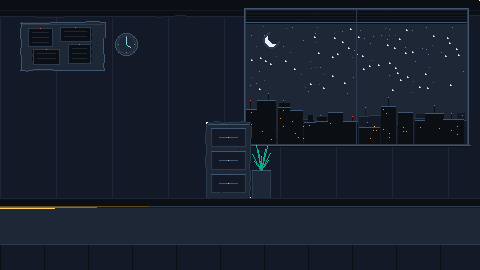
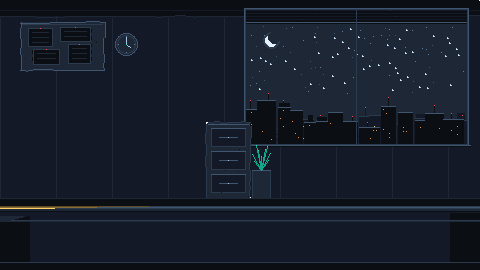
art(desk): defined desk pass -- grouped props, bevelled lip/apron/kick, contact shadows everywhere, real keyboard/mouse/mug/folder; fix workspace budget (BUG-026)

Changed region(s): [[0.0, 0.7407, 1.0, 0.9185], [0.0, 0.9481, 1.0, 0.9778]]

diff --git a/tools/art/promote_composition_L.py b/tools/art/promote_composition_L.py
@@ -230,20 +230,60 @@ def plant_pot(img, d, x, floor_row, h=42, leaf='signaldim', tip='signal'):
 
 
 def desk_front(img, d, level=0):
-    """The desk surface + front face at the bottom of the screen. Same band in every corruption level."""
+    """The desk: surface band + front face. Same construction in every corruption level.
+
+    DEFINED 2026-11-26. The old front face was three flat bands with a tick mark every 44 px, which
+    read as "underdefined wall". A desk seen from the player's side is a piece of furniture, so it now
+    has: a bevelled front lip (3 steps), a lit top edge that catches the monitor glow, a recessed
+    knee-well shadow at the ends, and an apron with one drawer + handle -- the single most recognisable
+    desk cue that fits in 18 px of height.
+    """
+    LIP = 4                              # lit lip thickness, rows DESK_ROW..DESK_ROW+LIP
+    APRON_TOP = DESK_ROW + LIP + 1
     d.rectangle([0, DESK_ROW, W - 1, H - 1], fill=rgba('panel2'))
-    d.rectangle([0, DESK_ROW + 38, W - 1, H - 1], fill=rgba('panel'))
+
+    # ---- front lip: three bevelled steps, so the edge catches light instead of being a line
     seam = 'line' if level < 2 else 'dangerdim'
     d.line([0, DESK_ROW, W - 1, DESK_ROW], fill=rgba(seam))
-    d.line([0, DESK_ROW + 1, W - 1, DESK_ROW + 1], fill=rgba('panel'))
-    d.line([0, DESK_ROW + 38, W - 1, DESK_ROW + 38], fill=rgba('line'))
-    for x in range(0, W, 44):
-        d.line([x, DESK_ROW + 39, x, H - 1], fill=rgba('void'))
-    # warm rim only from the off-screen lamp on the left (bible §2)
+    d.line([0, DESK_ROW + 1, W - 1, DESK_ROW + 1], fill=rgba('linehi'))
+    d.line([0, DESK_ROW + 2, W - 1, DESK_ROW + 2], fill=rgba('line'))
+
+    # ---- apron: one step darker than the lip, with a drawer reserved in the middle
+    d.rectangle([0, APRON_TOP, W - 1, H - 1], fill=rgba('panel'))
+    d.line([0, APRON_TOP, W - 1, APRON_TOP], fill=rgba('void'))
+
+    # ---- knee-well shadow at both ends: the desk darkens where it turns away from the lamp
+    for i in range(26):
+        tone = 'void' if i < 12 else 'panel'
+        d.line([0, APRON_TOP + 1 + i, W - 1, APRON_TOP + 1 + i], fill=rgba('panel'))
+    for i in range(30):
+        d.line([i, APRON_TOP + 2, i, H - 1], fill=rgba('void'))
+        d.line([W - 1 - i, APRON_TOP + 2, W - 1 - i, H - 1], fill=rgba('void'))
+    # re-light the middle of the apron so the darkening reads as a gradient, not a frame
+    for i in range(30, W // 2):
+        d.line([i, APRON_TOP + 2, i, H - 1], fill=rgba('panel'))
+        d.line([W - 1 - i, APRON_TOP + 2, W - 1 - i, H - 1], fill=rgba('panel'))
+
+    # ---- apron detail: two panel joints and a horizontal rail.
+    # A centred drawer was tried first and read as a TRAY holding the papers (the props sit directly
+    # above it) -- so the front face stays quiet and reads by its planes instead: lip, apron, rail,
+    # kick shadow. Definition comes from value steps, not from added clutter.
+    d.line([0, APRON_TOP + 9, W - 1, APRON_TOP + 9], fill=rgba('line'))
+    d.line([0, APRON_TOP + 10, W - 1, APRON_TOP + 10], fill=rgba('panel2'))
+    # NOTE: vertical panel joints were tried at x=168/312 and deleted -- they ran straight through
+    # the mouse and the folder, which is exactly the "scrambled" read we were fixing.
+    # kick shadow along the floor: the darkest plane, so the desk has a base
+    d.rectangle([0, H - 7, W - 1, H - 1], fill=rgba('void'))
+    d.line([0, H - 8, W - 1, H - 8], fill=rgba('line'))
+
+    # ---- warm rim only from the off-screen lamp on the left (bible §2)
     if level == 0:
-        d.line([0, DESK_ROW, 148, DESK_ROW], fill=rgba('glow_amber'))   # lamp falloff on the desk edge
+        d.line([0, DESK_ROW, 148, DESK_ROW], fill=rgba('glow_amber'))    # lamp falloff on the lip
         d.line([0, DESK_ROW + 1, 96, DESK_ROW + 1], fill=rgba('paperdim'))
-        d.line([0, DESK_ROW + 2, 54, DESK_ROW + 2], fill=rgba('warn'))  # warmest right under the lamp
+        d.line([0, DESK_ROW + 2, 54, DESK_ROW + 2], fill=rgba('warn'))   # warmest under the lamp
+        for i in range(40):                                              # spill onto the apron
+            d.line([0, APRON_TOP + 1 + i // 4, 42 - i, APRON_TOP + 1 + i // 4],
+                   fill=rgba('panel2' if i > 18 else 'panel'))
     elif level == 2:
         d.line([0, DESK_ROW, 132, DESK_ROW], fill=rgba('dangerdim'))
 
@@ -305,35 +345,83 @@ def room(level=0):
 
 
 # --------------------------------------------------------------------------- desk work
-def keyboard(img, d, cx, row, w=92, h=24):
+def keyboard(img, d, cx, row, w=88, h=26):
+    """DEFINED desk pass (2026-11-26). The old keyboard was 3 rows of identical key holes, which
+    merged into a grille. Now: lit top face, recessed key well, staggered key rows, a real space
+    bar, and a shadow under the front lip so it sits on the desk instead of floating on it."""
     x = cx - w // 2
-    d.rectangle([x, row, x + w, row + h], fill=rgba('panel'), outline=rgba('linehi'))
-    d.rectangle([x + 1, row + 1, x + w - 1, row + h - 1], outline=rgba('line'))
-    for r_ in range(3):
-        for c_ in range(13):
-            bx = x + 5 + c_ * 6
-            by = row + 4 + r_ * 4
-            if bx + 4 < x + w - 4:
-                d.rectangle([bx, by, bx + 4, by + 2], fill=rgba('line'))
-    d.rectangle([x + 24, row + h - 5, x + w - 24, row + h - 2], fill=rgba('line'))
+    # contact shadow on the desk
+    d.line([x + 2, row + h + 2, x + w - 2, row + h + 2], fill=rgba('void'))
+    d.line([x + 6, row + h + 3, x + w - 6, row + h + 3], fill=rgba('panel'))
+    # body: lit top edge, dark well, shadowed bottom
+    d.rectangle([x, row, x + w, row + h], fill=rgba('panel2'), outline=rgba('line'))
+    d.line([x + 1, row + 1, x + w - 1, row + 1], fill=rgba('linehi'))
+    d.rectangle([x + 1, row + 2, x + w - 1, row + h - 1], outline=rgba('line'))
+    # key well: a recessed plane, one step darker than the body
+    wx0, wy0, wx1, wy1 = x + 4, row + 4, x + w - 4, row + h - 5
+    d.rectangle([wx0, wy0, wx1, wy1], fill=rgba('void'))
+    d.line([wx0, wy0, wx1, wy0], fill=rgba('line'))
+    # staggered keys: back row is full width, front rows inset (that is what a keyboard looks like)
+    rows = ((wx0 + 1, 13, 6), (wx0 + 3, 12, 6), (wx0 + 5, 11, 6))
+    for i, (kx, count, step) in enumerate(rows):
+        ky = wy0 + 2 + i * 5
+        for c_ in range(count):
+            bx = kx + c_ * step
+            if bx + 4 > wx1:
+                break
+            d.rectangle([bx, ky, bx + 4, ky + 3], fill=rgba('panel'))
+            d.line([bx, ky, bx + 4, ky], fill=rgba('linehi'))      # lit key top
+    # space bar + two modifiers
+    d.rectangle([cx - 16, wy1 - 5, cx + 16, wy1 - 2], fill=rgba('panel'))
+    d.line([cx - 16, wy1 - 5, cx + 16, wy1 - 5], fill=rgba('linehi'))
+    d.rectangle([wx0 + 1, wy1 - 5, wx0 + 7, wy1 - 2], fill=rgba('panel'))
+    d.rectangle([wx1 - 7, wy1 - 5, wx1 - 1, wy1 - 2], fill=rgba('panel'))
+    # front lip
+    d.line([x, row + h - 2, x + w, row + h - 2], fill=rgba('line'))
     d.line([x, row + h, x + w, row + h], fill=rgba('void'))
 
 
 def mouse(img, d, x, row):
-    d.ellipse([x, row, x + 13, row + 18], fill=rgba('panel'), outline=rgba('linehi'))
-    d.line([x + 6, row + 2, x + 6, row + 7], fill=rgba('line'))
-    d.line([x - 4, row + 1, x + 1, row + 4], fill=rgba('line'))
+    """Mouse built from row spans so it has a real silhouette. The previous version was a pale disc
+    on a dark disc, which read as two coins. Crown is narrow, body is wide, and the split runs only
+    down the front third -- that is what makes it read as a mouse and not an oval."""
+    d.line([x + 1, row + 19, x + 12, row + 19], fill=rgba('void'))       # contact shadow
+    # BODY TONE: 'line', not 'panel2' -- the desk surface itself is panel2, so the first version of
+    # this mouse was the same value as the desk and only its edges showed (it read as a plus sign).
+    spans = ((4, 11), (2, 13), (1, 14), (1, 14), (0, 15), (0, 15), (0, 15), (0, 15),
+             (0, 15), (1, 14), (1, 14), (2, 13), (3, 12), (4, 11), (5, 10), (6, 9))
+    for i, (a, b) in enumerate(spans):
+        d.line([x + a, row + i, x + b, row + i], fill=rgba('line'))
+    d.line([x + 4, row, x + 11, row], fill=rgba('linehi'))               # lit crown
+    d.line([x + 1, row + 2, x + 1, row + 13], fill=rgba('linehi'))       # lit left edge
+    d.line([x + 14, row + 3, x + 14, row + 13], fill=rgba('panel2'))     # shaded right edge
+    d.line([x + 7, row + 1, x + 7, row + 6], fill=rgba('void'))          # button split
+    d.line([x, row + 7, x + 15, row + 7], fill=rgba('linehi'))           # button/body seam
+    d.point((x + 7, row + 9), fill=rgba('linehi'))                       # scroll notch
+    d.line([x - 6, row + 1, x - 1, row + 2], fill=rgba('line'))          # cable
 
 
 def coffee(img, d, x, row):
-    d.rectangle([x, row, x + 22, row + 24], fill=rgba('panel'), outline=rgba('linehi'))
-    d.line([x + 1, row + 1, x + 21, row + 1], fill=rgba('ink'))
-    d.line([x + 22, row + 4, x + 28, row + 7], fill=rgba('linehi'))
-    d.line([x + 28, row + 7, x + 28, row + 15], fill=rgba('linehi'))
-    d.line([x + 28, row + 15, x + 22, row + 18], fill=rgba('linehi'))
-    for i, sx in enumerate((x + 5, x + 11, x + 17)):
-        d.line([sx, row - 4, sx + 1, row - 9 - i], fill=rgba('line'))
-        d.point((sx + 1, row - 10 - i), fill=rgba('linehi'))
+    """Mug: cylinder with a lit rim, liquid line, handle, two-step contact shadow, 1 wisp of steam.
+    The old one was a rectangle with a wire handle -- the biggest single 'undefined' blob on the desk."""
+    d.ellipse([x - 1, row + 22, x + 23, row + 27], fill=rgba('void'))          # contact shadow
+    d.rectangle([x, row + 2, x + 22, row + 24], fill=rgba('panel2'))
+    d.line([x, row + 2, x, row + 24], fill=rgba('linehi'))                    # lit left edge
+    d.line([x + 22, row + 2, x + 22, row + 24], fill=rgba('line'))            # shadow right edge
+    d.ellipse([x, row, x + 22, row + 6], fill=rgba('panel2'), outline=rgba('linehi'))
+    d.ellipse([x + 2, row + 2, x + 20, row + 5], fill=rgba('ink'))            # coffee inside
+    d.line([x + 4, row + 3, x + 12, row + 3], fill=rgba('paperdim'))          # surface catch-light
+    # handle: a C, not a loop of wire
+    d.line([x + 23, row + 8, x + 27, row + 9], fill=rgba('linehi'))
+    d.line([x + 27, row + 9, x + 27, row + 16], fill=rgba('linehi'))
+    d.line([x + 27, row + 16, x + 23, row + 17], fill=rgba('linehi'))
+    d.line([x + 24, row + 10, x + 25, row + 10], fill=rgba('line'))
+    d.line([x + 24, row + 15, x + 25, row + 15], fill=rgba('line'))
+    # steam: two soft columns, tapering
+    for i, sx in enumerate((x + 7, x + 14)):
+        d.line([sx, row - 3 - i, sx + 1, row - 8], fill=rgba('line'))
+        d.point((sx + 1, row - 9), fill=rgba('linehi'))
+        d.point((sx + 2, row - 11), fill=rgba('line'))
 
 
 def notepad_and_pen(img, d, x, row):
@@ -347,12 +435,30 @@ def notepad_and_pen(img, d, x, row):
 
 
 def folder_stack(img, d, x, row):
+    """Manila folder with papers inside -- not a stack of white slabs.
+
+    The old version was three overlapping white rectangles, which at phone size read as one bright
+    undefined block: the single loudest thing on the desk. Now the FOLDER is the silhouette (paperdim,
+    with a tab) and only a thin edge of paper shows, so the mass stays quiet.
+    """
+    # contact shadow
+    d.line([x + 2, row + 32, x + 60, row + 32], fill=rgba('void'))
+    d.line([x + 6, row + 33, x + 56, row + 33], fill=rgba('panel'))
+    # paper peeking out of the folder: offset left and only 4 px proud, so it reads as a sheet
+    # INSIDE the folder rather than a card floating above it
+    d.rectangle([x + 2, row + 6, x + 50, row + 20], fill=rgba('paper'), outline=rgba('paperdim'))
+    d.line([x + 2, row + 6, x + 50, row + 6], fill=rgba('paperdim'))
     for i in range(3):
-        col = 'paper' if i == 2 else 'paperdim'
-        d.rectangle([x + i, row + 22 - i * 4, x + 62 + i, row + 38 - i * 4], fill=rgba(col), outline=rgba('ink'))
-    d.rectangle([x + 2, row + 12, x + 66, row + 24], fill=rgba('paper'), outline=rgba('ink'))
-    for i in range(3):
-        d.line([x + 8, row + 16 + i * 4, x + 58 - i * 10, row + 16 + i * 4], fill=rgba('paperdim'))
+        d.line([x + 5 + i, row + 10 + i * 3, x + 44 - i * 7, row + 10 + i * 3], fill=rgba('paperdim'))
+    # folder body with a tab on the back edge
+    d.rectangle([x + 4, row + 10, x + 12, row + 17], fill=rgba('paperdim'), outline=rgba('ink'))
+    d.rectangle([x, row + 14, x + 58, row + 30], fill=rgba('paperdim'), outline=rgba('ink'))
+    d.line([x + 1, row + 15, x + 57, row + 15], fill=rgba('warn'))      # lit folder edge
+    d.line([x + 1, row + 29, x + 57, row + 29], fill=rgba('ink'))
+    # label block on the folder face (text is TMP in game; this is the plate)
+    d.rectangle([x + 6, row + 19, x + 30, row + 26], fill=rgba('paper'), outline=rgba('ink'))
+    d.line([x + 8, row + 21, x + 26, row + 21], fill=rgba('paperdim'))
+    d.line([x + 8, row + 24, x + 21, row + 24], fill=rgba('paperdim'))
 
 
 def sticky_notes(img, d, x, row):
@@ -370,19 +476,39 @@ def clipboard(img, d, x, row):
 
 
 def desk_work():
-    """Everything lying on the desk. Local rows: 0 = DESK_ROW."""
+    """Everything lying on the desk. Local rows: 0 = DESK_ROW.
+
+    LAYOUT RULE (2026-11-26, "defining desk" pass). The old desk was eight small props spread evenly
+    across the whole width, so nothing led and everything competed. Now it reads as three GROUPS with
+    gaps between them, ordered by how the player actually works:
+
+        LEFT  (work area)  notepad + pen | keyboard + mouse
+        RIGHT (paperwork)  folder stack + sticky notes | clipboard
+        EDGE  (comfort)    mug
+
+    Props are also bigger (keyboard 88 px wide, mug 24 px tall) so they read at phone size, and every
+    one carries a contact shadow -- an object with no shadow on a surface is the main reason the desk
+    looked undefined rather than cluttered.
+    """
     img = Image.new('RGBA', (W, DESK_H), (0, 0, 0, 0))
     d = ImageDraw.Draw(img)
-    base = 8
-    notepad_and_pen(img, d, 14, base)
-    keyboard(img, d, cx=100, row=base + 2)
-    mouse(img, d, 152, base + 6)
-    sticky_notes(img, d, 180, base + 2)
-    folder_stack(img, d, 200, base - 2)
-    clipboard(img, d, 330, base - 6)
-    coffee(img, d, 408, base + 2)
-    # RAGGED: a desk that has been worked at for years -- sparse scuffs, no noise
-    scuff(img, 301, n=26, tones=('panel', 'void'))
+    base = 6
+
+    # ---- GROUP 1: work area, left
+    notepad_and_pen(img, d, 12, base + 2)
+    keyboard(img, d, cx=104, row=base + 1)
+    mouse(img, d, 162, base + 4)
+
+    # ---- GROUP 2: paperwork, right of centre
+    sticky_notes(img, d, 186, base + 3)
+    folder_stack(img, d, 208, base - 2)
+    clipboard(img, d, 330, base - 4)
+
+    # ---- GROUP 3: comfort, far right
+    coffee(img, d, 404, base + 2)
+
+    # RAGGED: a desk worked at for years -- sparse, low-contrast, never noise
+    scuff(img, 301, n=22, tones=('panel', 'void'))
     return img
 
 

diff --git a/docs/15-art-bible.md b/docs/15-art-bible.md
@@ -262,6 +262,22 @@ at **+10**, so a stand baked into the monitor could never be seen below the desk
 | Every prop gets a contact shadow | a dark line or 2-step band exactly where it meets the surface. No contact shadow = floating, at any resolution |
 | Check at 4×, not 1× | `twin_desk.py --zoom 4` with the right crop; a 12 px gap is invisible in a 480 px thumbnail |
 
+## 7c. The desk must read as furniture (locked 2026-11-26)
+
+User feedback: *"the desk looks too scrambled or too undefined"*. Both were true, for two different
+reasons, and the fixes are rules now:
+
+| Problem | Cause | Rule |
+|---|---|---|
+| Scrambled | eight small props spread evenly across 480 px, each competing | Props are **grouped** with gaps: work area (notepad, keyboard, mouse) → paperwork (sticky notes, folder, clipboard) → comfort (mug). Never place a prop in every band. |
+| Undefined | props had no contact shadow, and the front face was flat bands with tick marks | **Every prop gets a contact shadow.** The desk front is lip (3 bevelled rows) → apron → rail → kick shadow. Definition comes from value steps, never from added clutter. |
+| "Everything the same" | surface tone equals prop tone | A prop may never use the surface's own tone as its body: the mouse was `panel2` on a `panel2` desk and read as a plus sign. Use one step off. |
+| Fake depth | drawer drawn under the props read as a tray | No horizontal panel line directly under a prop cluster. |
+
+**Rejected in this pass (do not retry):** a centred drawer with a bar handle (reads as a tray);
+vertical panel joints at x=168/312 (they ran through the mouse and the folder); a white 3-slab folder
+stack (one bright undefined block); a mouse drawn as concentric ellipses (two coins).
+
 ## 8. Open decisions (do not build on these yet)
 
 - None carried over. (The applicant backdrop-slab question was closed by removing the slab.)

diff --git a/docs/90-bug-log.md b/docs/90-bug-log.md
@@ -388,3 +388,16 @@ variant of "bundle newer than its HEAD" cannot recur.
   The monitor sprite moved from anchor y `76` to `86` to sit on the neck.
 - **Prevention rule:** a prop that stands on a surface may never rely on pixels inside its own sprite
   crossing a *higher* sorting layer. Split it, or it silently cannot touch the floor. (Bible §7b.)
+
+## BUG-026 -- workspace snapshot over budget, 4,283 files silently dropped (2026-11-26)
+
+- **Symptom:** the Workspace panel showed *"577.4 MB across 5,177 files, past the 128 MB / 10,000-file
+  limit. 4,283 files were not saved."*
+- **Cause:** the agent toolchain (.NET SDK 8.0.404 + PowerShell 7.4.6) was installed into
+  `/home/user/.tooling/` -- 4,644 files / 569 MB *inside the workspace*, which is snapshot-capped.
+- **Fix:** the SDK now installs to `/tmp/tc` (outside the workspace), `.tooling/` is reduced to a
+  `.keep` marker and gitignored, and the retained old bundles were pruned (only the current version is
+  kept on disk). Workspace is back to ~16 MB / 319 files.
+- **Prevention rule:** never install a toolchain, package cache or SDK under `/home/user`. If a tool
+  needs to persist between turns and is larger than a few MB, it belongs in `/tmp` or `/opt`, not the
+  repo -- the snapshot is a deliverable, not a scratch disk.
